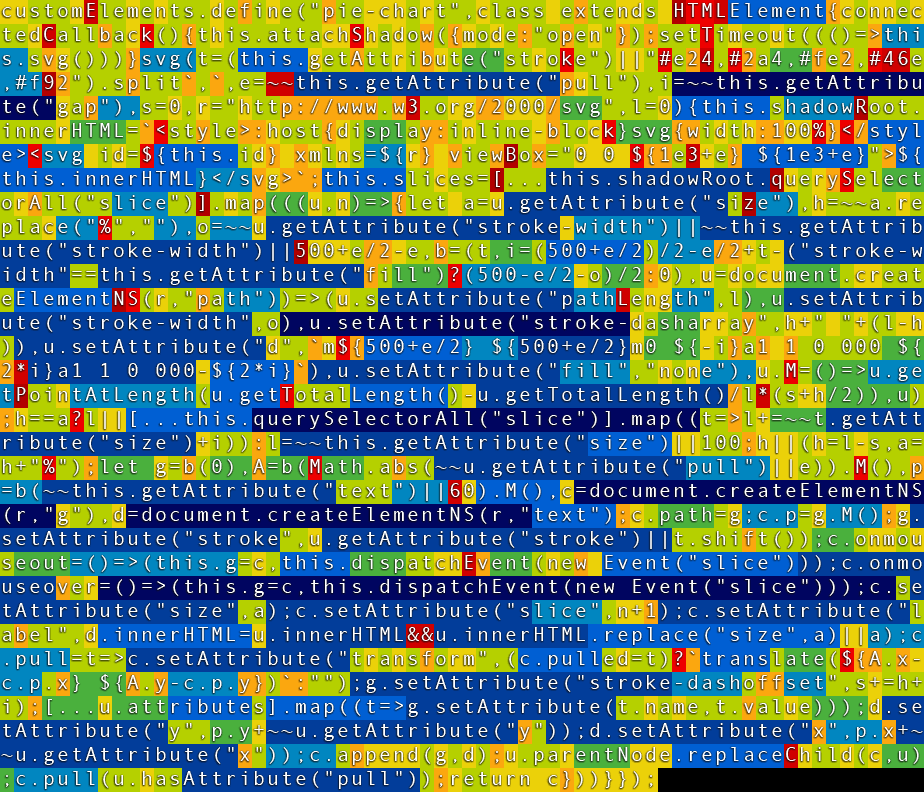
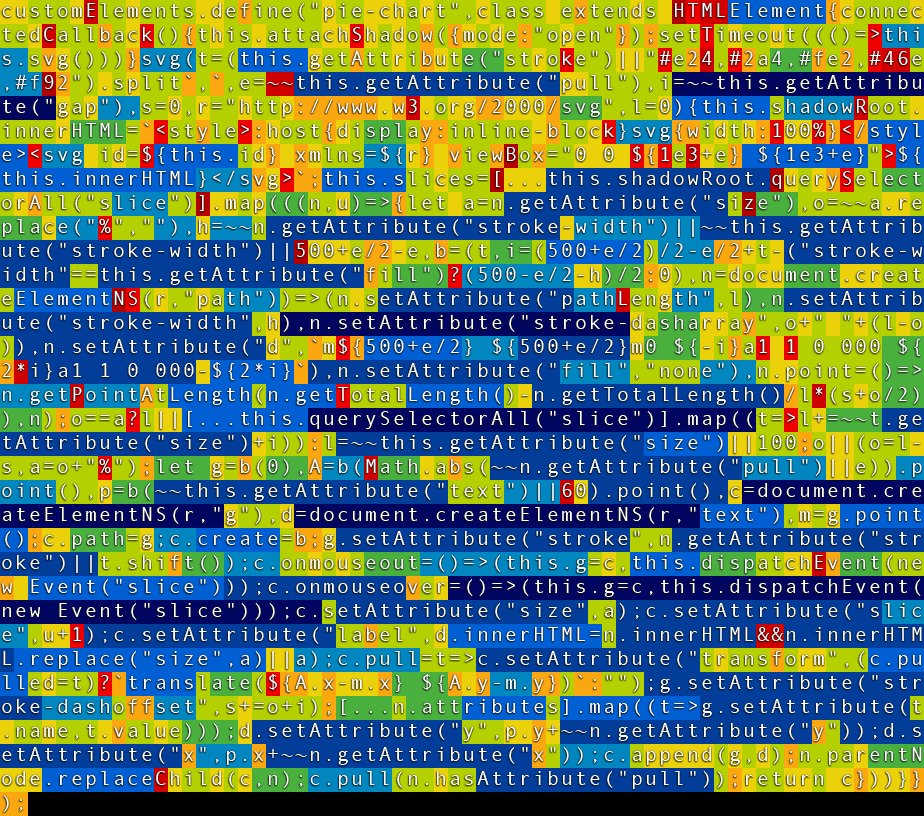
a

diff --git a/elements.pie-meister.min.js b/elements.pie-meister.min.js
@@ -1,1 +1,1 @@
-customElements.define("pie-chart",class extends HTMLElement{connectedCallback(){this.attachShadow({mode:"open"});setTimeout((()=>this.svg()))}svg(t=(this.getAttribute("stroke")||"#e24,#2a4,#fe2,#46e,#f92").split`,`,e=~~this.getAttribute("pull"),i=~~this.getAttribute("gap"),s=0,r="http://www.w3.org/2000/svg",l=0){this.shadowRoot.innerHTML=`<style>:host{display:inline-block}svg{width:100%}</style><svg id=${this.id} xmlns=${r} viewBox="0 0 ${1e3+e} ${1e3+e}">${this.innerHTML}</svg>`;this.slices=[...this.shadowRoot.querySelectorAll("slice")].map(((u,n)=>{let a=u.getAttribute("size"),h=~~a.replace("%",""),o=~~u.getAttribute("stroke-width")||~~this.getAttribute("stroke-width")||500+e/2-e,b=(t,i=(500+e/2)/2-e/2+t-("stroke-width"==this.getAttribute("fill")?(500-e/2-o)/2:0),u=document.createElementNS(r,"path"))=>(u.setAttribute("pathLength",l),u.setAttribute("stroke-width",o),u.setAttribute("stroke-dasharray",h+" "+(l-h)),u.setAttribute("d",`m${500+e/2} ${500+e/2}m0 ${-i}a1 1 0 000 ${2*i}a1 1 0 000-${2*i}`),u.setAttribute("fill","none"),u.M=()=>u.getPointAtLength(u.getTotalLength()-u.getTotalLength()/l*(s+h/2)),u);h==a?l||[...this.querySelectorAll("slice")].map((t=>l+=~~t.getAttribute("size")+i)):l=~~this.getAttribute("size")||100;h||(h=l-s,a=h+"%");let g=b(0),A=b(Math.abs(~~u.getAttribute("pull")||e)).M(),p=b(~~this.getAttribute("text")||60).M(),c=document.createElementNS(r,"g"),d=document.createElementNS(r,"text");c.path=g;c.p=g.M();g.setAttribute("stroke",u.getAttribute("stroke")||t.shift());c.onmouseout=()=>(this.g=c,this.dispatchEvent(new Event("slice")));c.onmouseover=()=>(this.g=c,this.dispatchEvent(new Event("slice")));c.setAttribute("size",a);c.setAttribute("slice",n+1);c.setAttribute("label",d.innerHTML=u.innerHTML&&u.innerHTML.replace("size",a)||a);c.pull=t=>c.setAttribute("transform",(c.pulled=t)?`translate(${A.x-c.p.x} ${A.y-c.p.y})`:"");g.setAttribute("stroke-dashoffset",s+=h+i);[...u.attributes].map((t=>g.setAttribute(t.name,t.value)));d.setAttribute("y",p.y+~~u.getAttribute("y"));d.setAttribute("x",p.x+~~u.getAttribute("x"));c.append(g,d);u.parentNode.replaceChild(c,u);c.pull(u.hasAttribute("pull"));return c}))}});
+customElements.define("pie-chart",class extends HTMLElement{connectedCallback(){this.attachShadow({mode:"open"});setTimeout((()=>this.svg()))}svg(t=(this.getAttribute("stroke")||"#e24,#2a4,#fe2,#46e,#f92").split`,`,e=~~this.getAttribute("pull"),i=~~this.getAttribute("gap"),s=0,r="http://www.w3.org/2000/svg",l=0){this.shadowRoot.innerHTML=`<style>:host{display:inline-block}svg{width:100%}</style><svg id=${this.id} xmlns=${r} viewBox="0 0 ${1e3+e} ${1e3+e}">${this.innerHTML}</svg>`;this.slices=[...this.shadowRoot.querySelectorAll("slice")].map(((n,u)=>{let a=n.getAttribute("size"),o=~~a.replace("%",""),h=~~n.getAttribute("stroke-width")||~~this.getAttribute("stroke-width")||500+e/2-e,b=(t,i=(500+e/2)/2-e/2+t-("stroke-width"==this.getAttribute("fill")?(500-e/2-h)/2:0),n=document.createElementNS(r,"path"))=>(n.setAttribute("pathLength",l),n.setAttribute("stroke-width",h),n.setAttribute("stroke-dasharray",o+" "+(l-o)),n.setAttribute("d",`m${500+e/2} ${500+e/2}m0 ${-i}a1 1 0 000 ${2*i}a1 1 0 000-${2*i}`),n.setAttribute("fill","none"),n.point=()=>n.getPointAtLength(n.getTotalLength()-n.getTotalLength()/l*(s+o/2)),n);o==a?l||[...this.querySelectorAll("slice")].map((t=>l+=~~t.getAttribute("size")+i)):l=~~this.getAttribute("size")||100;o||(o=l-s,a=o+"%");let g=b(0),A=b(Math.abs(~~n.getAttribute("pull")||e)).point(),p=b(~~this.getAttribute("text")||60).point(),c=document.createElementNS(r,"g"),d=document.createElementNS(r,"text"),m=g.point();c.path=g;c.create=b;g.setAttribute("stroke",n.getAttribute("stroke")||t.shift());c.onmouseout=()=>(this.g=c,this.dispatchEvent(new Event("slice")));c.onmouseover=()=>(this.g=c,this.dispatchEvent(new Event("slice")));c.setAttribute("size",a);c.setAttribute("slice",u+1);c.setAttribute("label",d.innerHTML=n.innerHTML&&n.innerHTML.replace("size",a)||a);c.pull=t=>c.setAttribute("transform",(c.pulled=t)?`translate(${A.x-m.x} ${A.y-m.y})`:"");g.setAttribute("stroke-dashoffset",s+=o+i);[...n.attributes].map((t=>g.setAttribute(t.name,t.value)));d.setAttribute("y",p.y+~~n.getAttribute("y"));d.setAttribute("x",p.x+~~n.getAttribute("x"));c.append(g,d);n.parentNode.replaceChild(c,n);c.pull(n.hasAttribute("pull"));return c}))}});

diff --git a/index.html b/index.html
@@ -140,16 +140,24 @@
           </style>
         </pie-chart>
         <script>
-          let pies = document.getElementById("pies");
-          pies.addEventListener("slice", (evt) => {
-            let slice = evt.target.g;
-            slice.pull(!slice.pulled);
+          document.addEventListener("DOMContentLoaded", ()=>{
+            console.log('DOMContentLoaded');
+            setTimeout(() => {
+            let pies = document.querySelector("#pies");
+            console.log(21,pies);
+            pies.slices.map((slice) => {
+              console.warn('slice group:',slice);
+              console.warn('slice path:',slice.path.point());
+              console.warn('slice createSlice:',slice.create);
+            });
+            pies.addEventListener("slice", (evt) => {
+              let slice = evt.target.g;
+              slice.pull(!slice.pulled);
+            });
+            console.log(pies,pies.slices);
+          }, 0);
           });
-          //console.log(pies.shadowRoot.querySelectorAll("slice"));
-          console.log(pies);
-          pies.slices.map((s) => {
-            console.log(s);
-          });
+</script>
         </script>
       </pie-example>
       <pie-demo>

diff --git a/demo_assets/elements.pie-meister.site-elements.js b/demo_assets/elements.pie-meister.site-elements.js
@@ -155,6 +155,7 @@ customElements.define(
           name: "<meister-name></meister-name>",
           uri: "https://pie-meister.github.io",
           size: "<content-length src='elements.pie-meister.min.js'></content-length>",
+          comment:`<a href="https://github.com/pie-meister/pie-meister.github.io">available on GitHub</a>`
         },
       ].map((c) => `<tr><td><a href="${c.uri}">${c.name}</a></td><td align=right>${c.size}</td><td>${c.comment||""}</td></tr>`).join``;
       this.innerHTML =
